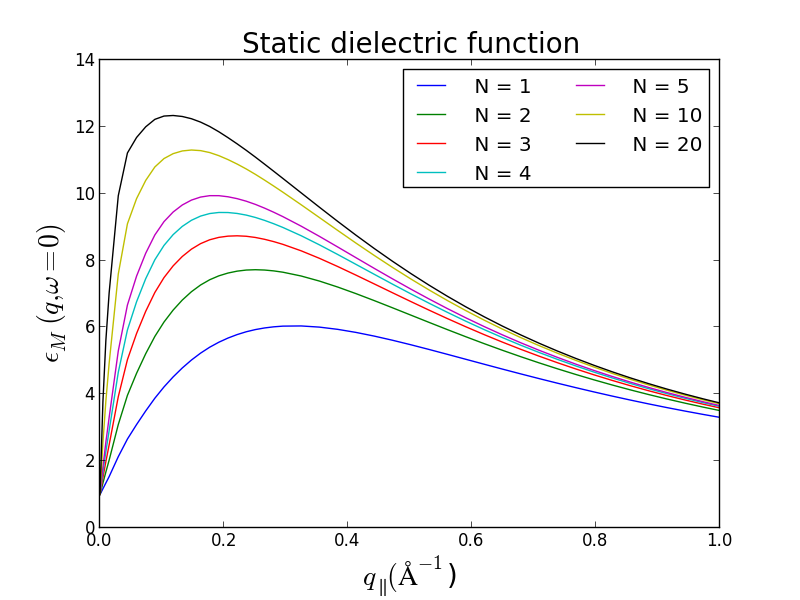
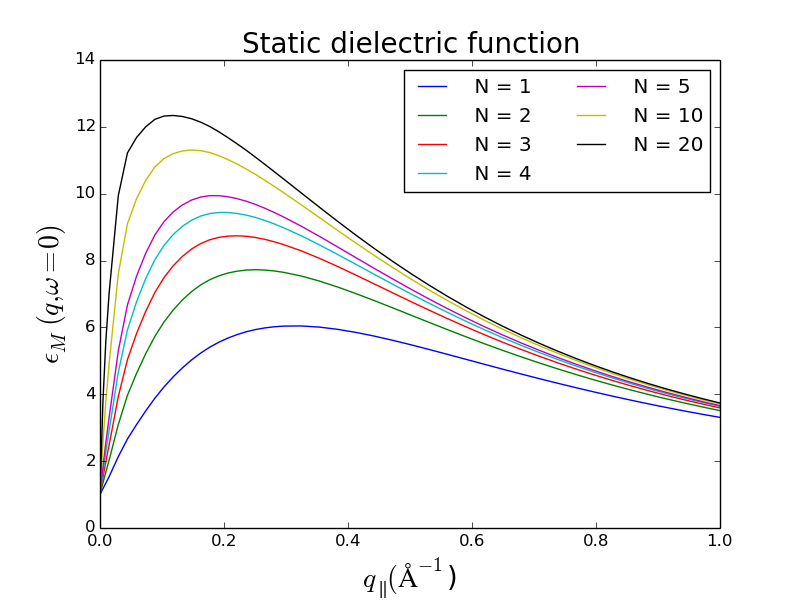
Small rearrangements
git-svn-id: https://svn.fysik.dtu.dk/projects/cmr2/trunk@83 1cd22e71-7009-4eff-a670-84da8a3a38ae

diff --git a/c2dm/multi_MoS2.py b/c2dm/multi_MoS2.py
@@ -1,43 +1,40 @@
-from sys import argv
+# creates: epsMoS2.svg
 import pickle
-import numpy as np
 from ase.db import connect
 
-# Extract data and save to .pckl file
-c = connect('vdWH_BuildingBlocks.db')
+# Extract data and save to .pckl files:
+c = connect('c2dm.db')
 names = ['H-MoS2']
 for name in names:
     d = c.get(name=name)
-    pickle.dump((np.array(d.data.q),
-                 np.array(d.data.frequencies),
-                 np.array(d.data.chi_monopole),
-                 np.array(d.data.chi_dipole),
-                 np.array(d.data.z),
-                 np.array(d.data.drho_monopole),
-                 np.array(d.data.drho_dipole)), 
-                open('%s-chi.pckl'%name, 'w'))
+    pickle.dump((d.data.q,
+                 d.data.frequencies,
+                 d.data.chi_monopole,
+                 d.data.chi_dipole,
+                 d.data.z,
+                 d.data.drho_monopole,
+                 d.data.drho_dipole),
+                open('%s-chi.pckl' % name, 'w'),
+                pickle.HIGHEST_PROTOCOL)
 
-# Calculate static dielectric function for multilayer MoS2
-# for 1 to 20 layers
-
+# Calculate static dielectric function for multilayer MoS2 for 1 to 20 layers:
 from QEH import Heterostructure
-import pylab as p
-for n in [1,2,3,4,5,10,20]:
-    d = [6.15 for i in range(n-1)]
-    HS = Heterostructure(structure = ['%dH-MoS2'%n],  # set up structure
+import matplotlib.pyplot as plt
+for n in [1, 2, 3, 4, 5, 10, 20]:
+    d = [6.15 for i in range(n - 1)]
+    HS = Heterostructure(structure=['%dH-MoS2' % n],  # set up structure
                          d=d,                         # layer distance array
-                         include_dipole=True,         
+                         include_dipole=True,
                          wmax=0,                      # only include w=0
                          qmax=1,                      # q grid up to 1 Ang^{-1}
-                         d0 = 6.15)                   # width of single layer
+                         d0=6.15)                     # width of single layer
     q, epsM = HS.get_macroscopic_dielectric_function()
-    p.plot(q, epsM, label=' N = %s'%n)
+    plt.plot(q, epsM, label=' N = %s' % n)
 
-p.xlim(0,1)
-p.xlabel('$q_\parallel (\mathrm{\AA^{-1}}$)', fontsize= 20)
-p.ylabel('$\epsilon_M(q, \omega=0)$', fontsize= 20)
-p.title('Static dielectric function', fontsize= 20)
-p.legend(ncol=2, loc = 'best')
-p.subplots_adjust(bottom=0.12)
-p.savefig('epsMoS2.png')
-p.show()
+plt.xlim(0, 1)
+plt.xlabel('$q_\parallel (\mathrm{\AA^{-1}}$)', fontsize=20)
+plt.ylabel('$\epsilon_M(q, \omega=0)$', fontsize=20)
+plt.title('Static dielectric function', fontsize=20)
+plt.legend(ncol=2, loc='best')
+plt.subplots_adjust(bottom=0.12)
+plt.savefig('epsMoS2.svg')

diff --git a/run.py b/run.py
@@ -14,7 +14,8 @@ projects = [('dssc', ['dssc']),
             ('mp_gllbsc', ['mp_gllbsc']),
             ('organometal', ['organometal']),
             ('cubic_perovskites', ['cubic_perovskites']),
-            ('low_symmetry_perovskites', ['low_symmetry_perovskites'])]
+            ('low_symmetry_perovskites', ['low_symmetry_perovskites']),
+            ('c2dm', ['c2dm'])]
 
 parser = optparse.OptionParser()
 parser.add_option('--copy', action='store_true')

diff --git a/c2dm/c2dm.rst b/c2dm/c2dm.rst
@@ -1,5 +1,5 @@
-Computational two-dimensional materials
-==========================
+Computational 2-d materials
+===========================
 
 .. container:: article
 
@@ -12,8 +12,9 @@ Computational two-dimensional materials
     __ http:/dx.doi.org/
 
 
-* :download:`Download raw data <file.db>`
-* `Browse data <>`_
+* :download:`Download raw data <c2dm.db>`
+* `Browse data <http://cmrdb.fysik.dtu.dk/?query=project%3Dc2dm&
+  toggle=name,Egap_G0W0>`_
 
 
 Key-value pairs
@@ -22,18 +23,21 @@ Key-value pairs
 =====================  =======================================================
 key                    description
 =====================  =======================================================
-name                   Name of 2D material, written as phase followed by chemical formula. For example 'T-MoS2'
+name                   Name of 2D material, written as phase followed by
+                       chemical formula. For example 'T-MoS2'
 
-Egap_G0W0              Quasiparticle energy gap 
+Egap_G0W0              Quasiparticle energy gap
 
-data                   Dictionary with the dielectric building block of each material
-
+data                   Dictionary with the dielectric building block of each
+                       material
 =====================  =======================================================
 
-The data entry contains the data that makes up the dielectric building block of each material, which can be used to build van der waals heterostructures.  
+The data entry contains the data that makes up the dielectric building block
+of each material, which can be used to build van der waals heterostructures.
+
 
 Keys within data dictionary
----------------
+---------------------------
 
 =====================  =======================================================
 key                    description
@@ -42,9 +46,11 @@ q                      Grid for parallel momentum transfers
 
 frequencies            Energy grid
 
-chi_monopole           Monopole density response function, array of dimension (q x frequencies)
+chi_monopole           Monopole density response function, array of dimension
+                       (q x frequencies)
 
-chi_dipole             Dipole density response function, array of dimension (q x frequencies)
+chi_dipole             Dipole density response function, array of dimension
+                       (q x frequencies)
 
 z                      Real space grid perpendicular to the layer
 
@@ -55,23 +61,35 @@ drho_dipole            Dipole induced density, array of dimension (q x z)
 
 
 The quantum electrostatic heterostructure (QEH) model
--------------------------------------------------------
-The dielectric function of van der waals heterostructures and associated properties can be calculated with the python module, *QEH.py*, that can be downloaded from here: :download:`QEH.py`, and is also available trough GPAW (link and write more). 
+-----------------------------------------------------
 
-As an example the macroscopic dielectric function of multilayer MoS2 can be obtained. 
-First we extract the data for MoS2 from the database:
+The dielectric function of van der waals heterostructures and associated
+properties can be calculated with the python module, *qeh.py*, that can be
+downloaded from here: :download:`qeh.py`, and is also available trough GPAW
+(link and write more).
+
+As an example the macroscopic dielectric function of multilayer MoS2 can be
+obtained. First we extract the data for MoS2 from the database:
 
 .. literalinclude:: multi_MoS2.py
-    :lines: 1-19	
+    :lines: 2-
+    :end-before: Calculate
 
-Then the QEH module is used to calculate the dielectric function for for one to 20 layers of MoS2.  
+Then the QEH module is used to calculate the dielectric function for one
+to 20 layers of MoS2.
 
 .. literalinclude:: multi_MoS2.py
-    :lines: 20-	    
+    :start-after: Calculate
 
-Which should return this result: 
+Which should return this result:
 
-.. image:: epsMoS2.png
+.. image:: epsMoS2.svg
 
-The structure is set up with the structure parameter, that should be a list of speciems within the structure. In this case structure=['20MoS2'] gives 20 layers of MoS2. As an example a more complicated heterostructure of graphene, BN and MoS2 can be set up with: structure=['3H-MoS2', '2BN','graphene', '2BN', '3H-MoS2'], which will give one layer of graphene sandwiched between two layers of hBN and three layers of MoS2 on each side. 
-The d parameter should be a list of the distance bewteen all neigboring layers, with a length equal to N-1, where N is the number of layers in the structure. 
+The structure is set up with the structure parameter, that should be a list of
+speciems within the structure. In this case ``structure=['20MoS2']`` gives 20
+layers of MoS2. As an example a more complicated heterostructure of graphene,
+BN and MoS2 can be set up with: ``structure=['3H-MoS2', '2BN','graphene', '2BN',
+'3H-MoS2']``, which will give one layer of graphene sandwiched between two
+layers of hBN and three layers of MoS2 on each side. The d parameter should be
+a list of the distance bewteen all neigboring layers, with a length equal to
+N-1, where N is the number of layers in the structure.
